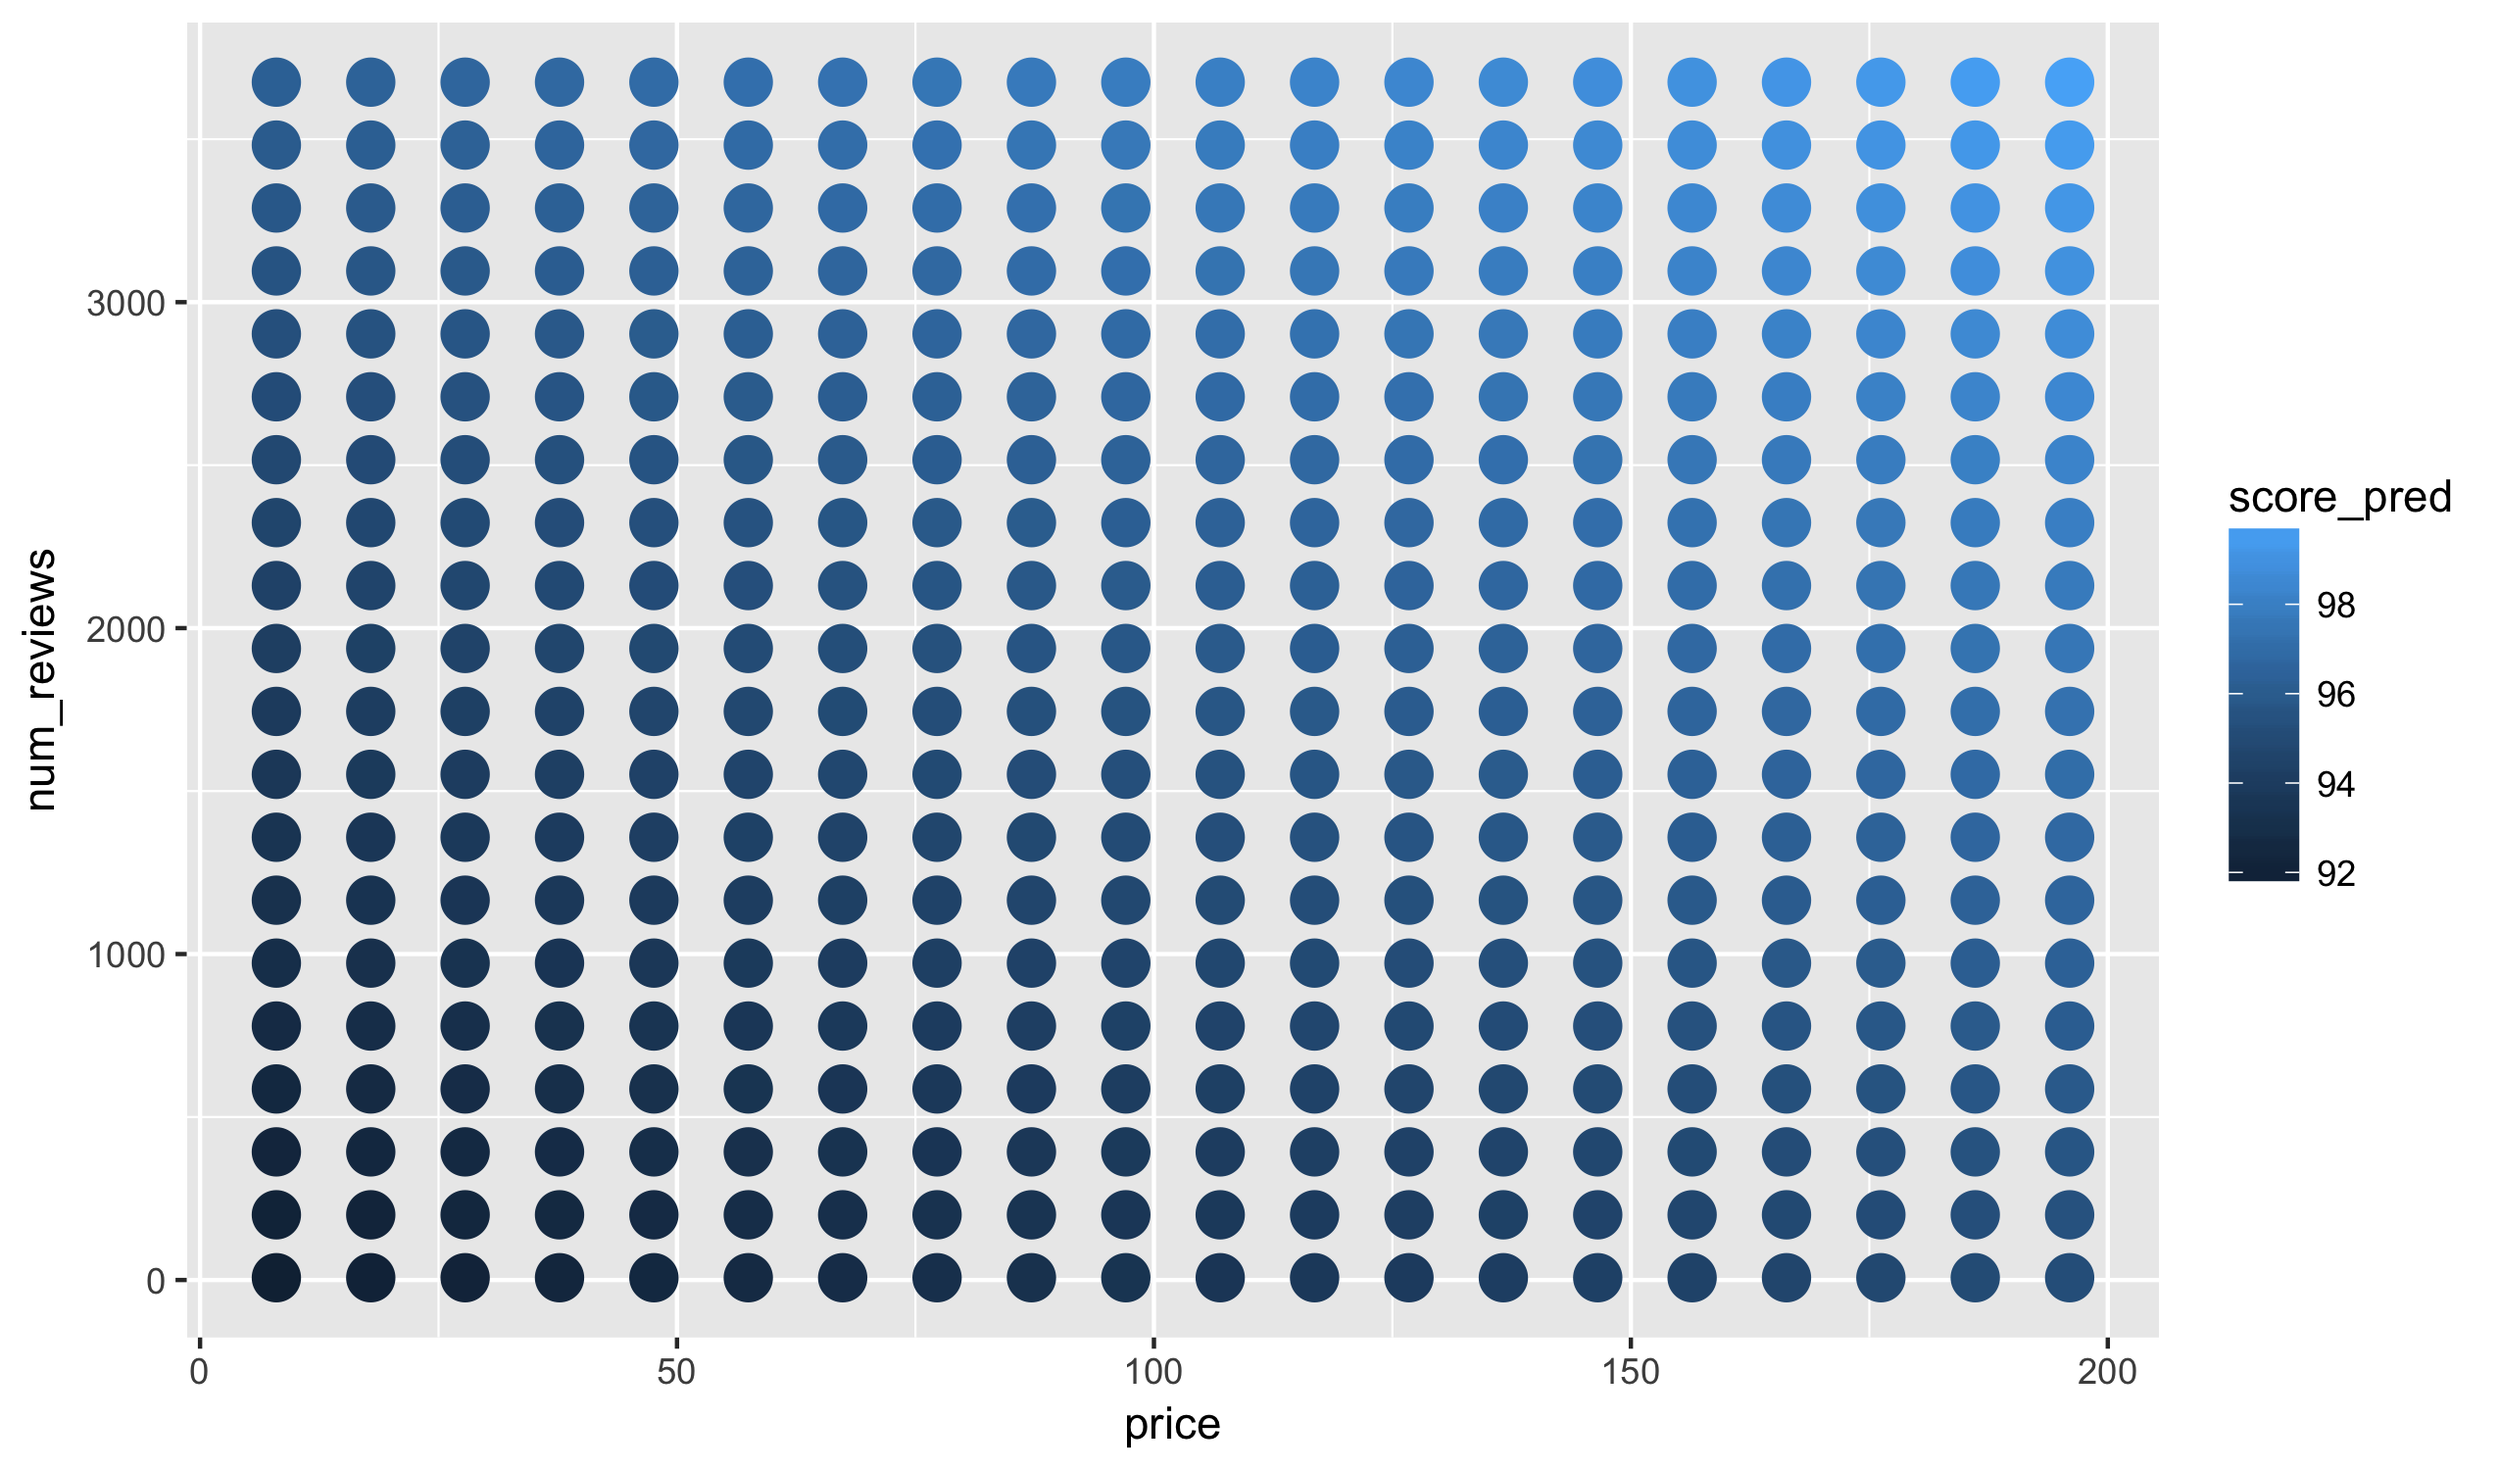
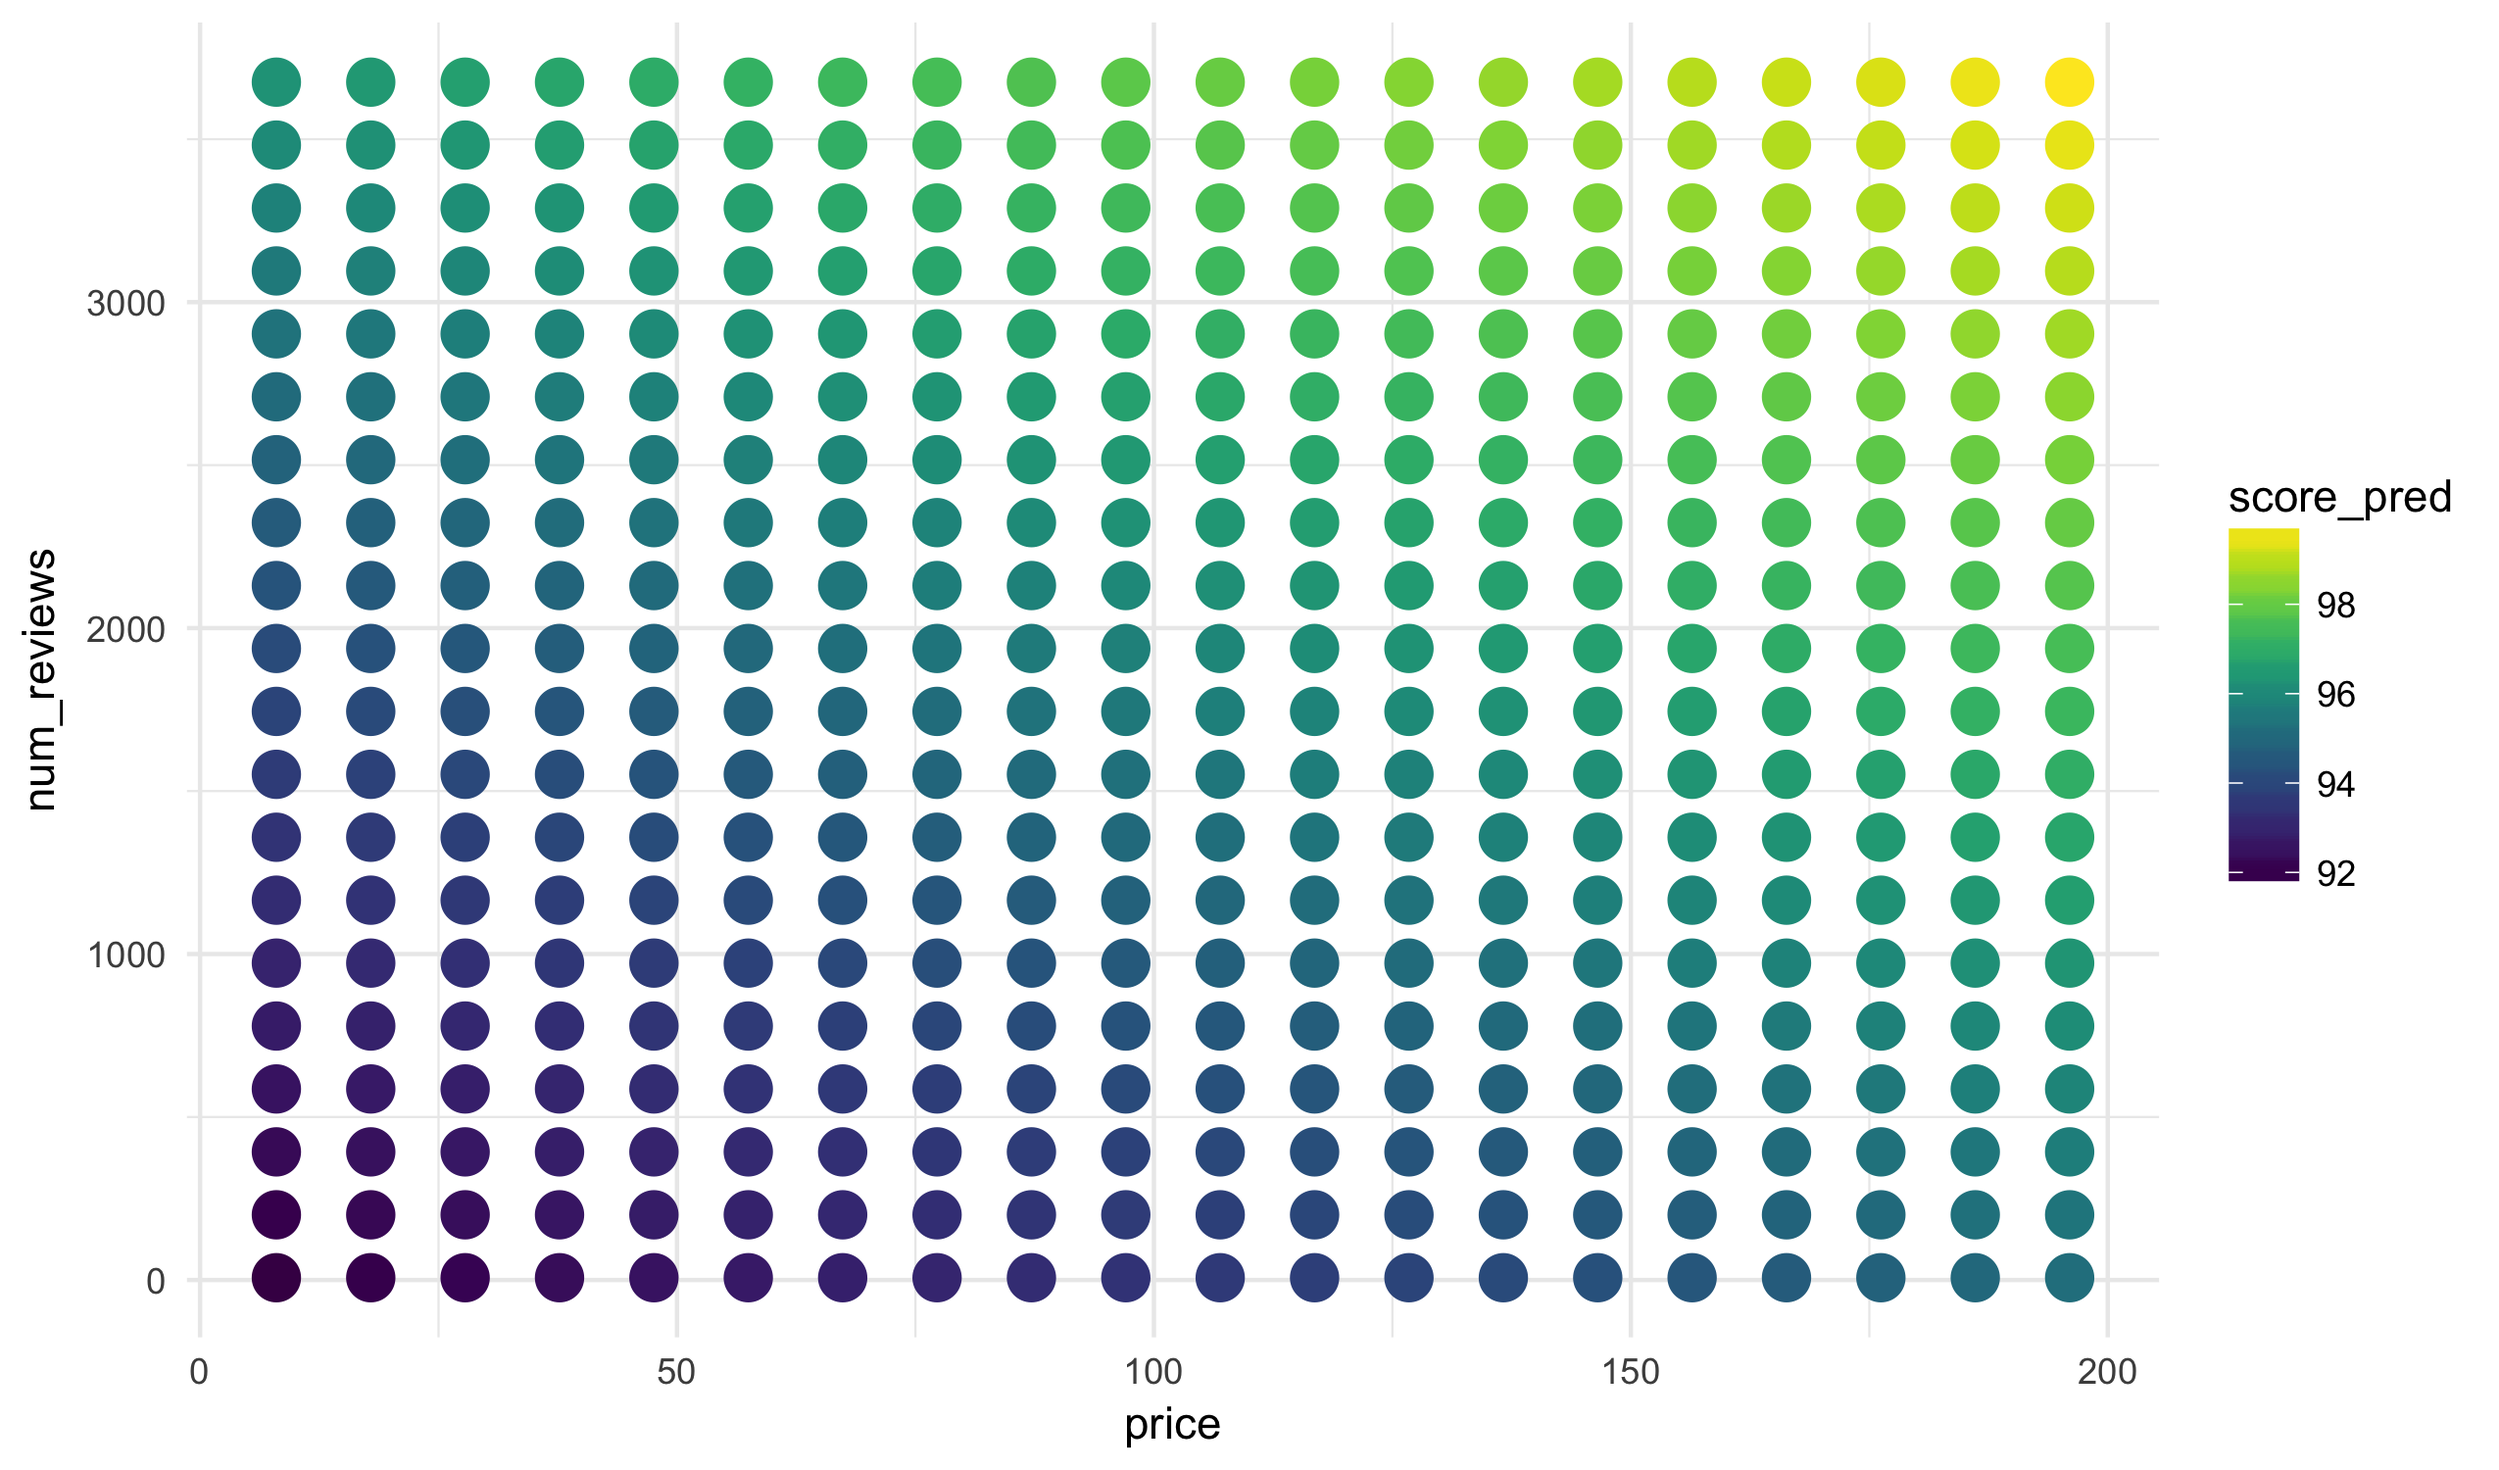
update classes 8-10

diff --git a/all.html b/all.html
@@ -19,7 +19,7 @@ Source: <b><a href="source/">link</a></b> <br>
 <div class="posts">
   <br>
   <h3>CLASS NOTES</h3>
-{% for post in site.posts reversed limit:3 %}
+{% for post in site.posts reversed %}
     <h3><strong>{{ post.date | date: "%Y-%m-%d" }}</strong>&nbsp;&nbsp;<a href="{{ site.baseurl }}{{ post.url }}">{{ post.title }}</a></h3>
 {% endfor %}
 </div>

diff --git a/_posts/2017-09-21-class08.md b/_posts/2017-09-21-class08.md
@@ -4,21 +4,15 @@ author: "Taylor Arnold"
 output: html_notebook
 ---
 
-```{r setup, include=FALSE}
-knitr::opts_chunk$set(eval = TRUE)
-knitr::opts_chunk$set(fig.path = "../assets/2017-09-21-class08/")
-knitr::opts_chunk$set(fig.height = 5)
-knitr::opts_chunk$set(fig.width = 8.5)
-knitr::opts_chunk$set(out.width = "100%")
-knitr::opts_chunk$set(dpi = 300)
-```
 
-```{r, message = FALSE}
+
+
+{% highlight r %}
 library(readr)
 library(ggplot2)
 library(dplyr)
 library(viridis)
-```
+{% endhighlight %}
 
 ![](../assets/img/data_pipeline_model.png)
 
@@ -30,9 +24,10 @@ library(viridis)
 Today we are, once again, going to look at another classic datasets
 in statistics featuring data about a number of automobiles.
 
-```{r, message = FALSE}
+
+{% highlight r %}
 cars <- read_csv("https://statsmaths.github.io/stat_data/mpg.csv")
-```
+{% endhighlight %}
 
 Our goal today is to estimate the city fuel efficiency of each car.
 
@@ -46,12 +41,27 @@ is internally being done here, but for now let's just
 see what adding the `class` variable to the model does
 to the output:
 
-```{r}
+
+{% highlight r %}
 model <- lm(cty ~ displ + class,
             data = cars)
 cars$score_pred <- predict(model, newdata = cars)
 model
-```
+{% endhighlight %}
+
+
+
+{% highlight text %}
+## 
+## Call:
+## lm(formula = cty ~ displ + class, data = cars)
+## 
+## Coefficients:
+##     (Intercept)            displ     classcompact     classmidsize  
+##          28.777           -2.172           -3.599           -3.676  
+##    classminivan      classpickup  classsubcompact         classsuv  
+##          -5.595           -6.182           -2.629           -5.599
+{% endhighlight %}
 
 Notice that it appears that we now have a separate term for
 each class of car. If you look more carefully you'll see that
@@ -70,11 +80,37 @@ For example, `glm` fits generalized linear models. These can
 be used, amongst other things, for fitting a model to a binary
 response:
 
-```{r}
+
+{% highlight r %}
 df <- data_frame(y = c(0,0,0,0,1,1,1,1), x = rnorm(8))
 model <- glm(y ~ x, data = df, family = binomial())
 summary(model)
-```
+{% endhighlight %}
+
+
+
+{% highlight text %}
+## 
+## Call:
+## glm(formula = y ~ x, family = binomial(), data = df)
+## 
+## Deviance Residuals: 
+##     Min       1Q   Median       3Q      Max  
+## -1.3085  -1.1577   0.0126   1.0724   1.5010  
+## 
+## Coefficients:
+##             Estimate Std. Error z value Pr(>|z|)
+## (Intercept)  -0.2570     0.8097  -0.317    0.751
+## x             0.7186     0.8329   0.863    0.388
+## 
+## (Dispersion parameter for binomial family taken to be 1)
+## 
+##     Null deviance: 11.090  on 7  degrees of freedom
+## Residual deviance: 10.214  on 6  degrees of freedom
+## AIC: 14.214
+## 
+## Number of Fisher Scoring iterations: 4
+{% endhighlight %}
 
 ### Robust linear models
 
@@ -82,22 +118,87 @@ In the **MASS** package (included with all standard R
 installations) is the `rlm` function for fitting robust
 linear regression:
 
-```{r}
+
+{% highlight r %}
 library(MASS)
+{% endhighlight %}
+
+
+
+{% highlight text %}
+## 
+## Attaching package: 'MASS'
+{% endhighlight %}
+
+
+
+{% highlight text %}
+## The following object is masked from 'package:dplyr':
+## 
+##     select
+{% endhighlight %}
+
+
+
+{% highlight r %}
 x <- rnorm(100)
 y <- 1 + x + rnorm(100, sd = 0.2)
 y[50] <- 1e4
 model_lm <- lm(y ~ x)
 model_rlm <- rlm(y ~ x)
-```
+{% endhighlight %}
 
 We see that the robust version is much more accurate than
 the standard regression function in this case:
 
-```{r}
+
+{% highlight r %}
 summary(model_lm)
+{% endhighlight %}
+
+
+
+{% highlight text %}
+## 
+## Call:
+## lm(formula = y ~ x)
+## 
+## Residuals:
+##    Min     1Q Median     3Q    Max 
+## -297.1 -159.6 -100.7  -44.5 9839.7 
+## 
+## Coefficients:
+##             Estimate Std. Error t value Pr(>|t|)
+## (Intercept)    83.12     102.82   0.808    0.421
+## x             -77.46     101.21  -0.765    0.446
+## 
+## Residual standard error: 1002 on 98 degrees of freedom
+## Multiple R-squared:  0.005941,	Adjusted R-squared:  -0.004203 
+## F-statistic: 0.5857 on 1 and 98 DF,  p-value: 0.4459
+{% endhighlight %}
+
+
+
+{% highlight r %}
 summary(model_rlm)
-```
+{% endhighlight %}
+
+
+
+{% highlight text %}
+## 
+## Call: rlm(formula = y ~ x)
+## Residuals:
+##        Min         1Q     Median         3Q        Max 
+## -4.720e-01 -1.571e-01 -1.513e-02  1.477e-01  1.000e+04 
+## 
+## Coefficients:
+##             Value   Std. Error t value
+## (Intercept)  0.9871  0.0214    46.0942
+## x            0.9936  0.0211    47.1332
+## 
+## Residual standard error: 0.233 on 98 degrees of freedom
+{% endhighlight %}
 
 ### Other models
 

diff --git a/_posts/2017-09-19-class07.md b/_posts/2017-09-19-class07.md
@@ -133,9 +133,9 @@ least squares is concerned with minimizing.
 {% highlight r %}
 tea <- mutate(tea, score_pred = 89 + num_reviews * 0.002)
 ggplot(tea, aes(num_reviews, score)) +
-  geom_line(color = "orange") +
-  geom_segment(aes(xend = num_reviews, yend = score_pred),
-               alpha = 0.5)
+  geom_smooth(method = "lm") +
+  geom_point() +
+  geom_segment(aes(xend = num_reviews, yend = score_pred))
 {% endhighlight %}
 
 <img src="../assets/2017-09-19-class07/unnamed-chunk-4-1.png" title="plot of chunk unnamed-chunk-4" alt="plot of chunk unnamed-chunk-4" width="100%" />
@@ -171,12 +171,26 @@ to our data:
 
 
 {% highlight r %}
-tea <- mutate(tea, pred = predict(model))
+tea <- mutate(tea, score_pred = predict(model))
 {% endhighlight %}
 
 And now plot the fitted values. Does it visually
 correspond to where you would expect the best fit
 line to run?
+
+
+{% highlight r %}
+ggplot(tea, aes(num_reviews, score_pred)) +
+  geom_smooth(method = "lm") +
+  geom_point() +
+  geom_segment(aes(xend = num_reviews, yend = pred))
+{% endhighlight %}
+
+
+
+{% highlight text %}
+## Error in eval(expr, envir, enclos): object 'pred' not found
+{% endhighlight %}
 
 <img src="../assets/2017-09-19-class07/unnamed-chunk-7-1.png" title="plot of chunk unnamed-chunk-7" alt="plot of chunk unnamed-chunk-7" width="100%" />
 
@@ -199,7 +213,7 @@ mean((tea$score - tea$score_pred)^2, na.rm = TRUE)
 
 
 {% highlight text %}
-## [1] 10.43739
+## [1] 3.63702
 {% endhighlight %}
 
 This works as a general measurement of error, but the units
@@ -215,7 +229,7 @@ sqrt(mean((tea$score - tea$score_pred)^2, na.rm = TRUE))
 
 
 {% highlight text %}
-## [1] 3.230695
+## [1] 1.907097
 {% endhighlight %}
 
 You'll find references to the RMSE through the literature on
@@ -247,7 +261,7 @@ the number of reviews and the price of the tea:
 
 {% highlight r %}
 model <- lm(score ~ num_reviews + price, data = tea)
-tea <- mutate(tea, pred = predict(model))
+tea <- mutate(tea, score_pred = predict(model))
 model
 {% endhighlight %}
 
@@ -275,21 +289,12 @@ tea_grid <- data_frame(num_reviews = tea_grid[,1],
                        price = tea_grid[,2])
 tea_grid$score_pred <- predict(model, newdata = tea_grid)
 ggplot(tea_grid, aes(price, num_reviews)) +
-  geom_point(aes(color = score_pred), size = 5)
-{% endhighlight %}
-
-<img src="../assets/2017-09-19-class07/unnamed-chunk-11-1.png" title="plot of chunk unnamed-chunk-11" alt="plot of chunk unnamed-chunk-11" width="100%" />
-
-{% highlight r %}
+  geom_point(aes(color = score_pred), size = 5) +
   scale_color_viridis() +
   theme_minimal()
 {% endhighlight %}
 
-
-
-{% highlight text %}
-## NULL
-{% endhighlight %}
+<img src="../assets/2017-09-19-class07/unnamed-chunk-11-1.png" title="plot of chunk unnamed-chunk-11" alt="plot of chunk unnamed-chunk-11" width="100%" />
 
 Also, the productiveness of the model has been
 greatly improved over the simple linear regression from
@@ -303,7 +308,7 @@ sqrt(mean((tea$score - tea$score_pred)^2, na.rm = TRUE))
 
 
 {% highlight text %}
-## [1] 3.230695
+## [1] 1.834459
 {% endhighlight %}
 
 ## Interpreting Regression Models
@@ -319,11 +324,11 @@ find that one should not rely too closely on the exact output
 ## Inference for Regression Models
 
 You should all be familiar with the structure of statistical hypothesis
-testing and confidence intervals. If not, the following are good sources
+testing and confidence intervals. If not, the following is a good sources
 for a brief review or catch-up:
 
-- []()
-- []()
+- [*Nature* Points of Significance: Significance, P values
+and t-tests](https://www.nature.com/nmeth/journal/v10/n11/pdf/nmeth.2698.pdf)
 
 We can easily get p-values that test whether each coefficient in a
 regression model is zero by calling the `summary` function on the
@@ -399,15 +404,6 @@ In general, in order to be valid hypothesis tests, we need to decide
 on the exact model before seeing any of the data and only run one
 model on the dataset. While we can run more models and modify them
 as we observe results, these can only be used for exploratory purposes.
-
-
-
-
-
-
-
-
-
 
 
 

diff --git a/_posts/2017-09-28-class10.md b/_posts/2017-09-28-class10.md
@@ -5,21 +5,15 @@ output: html_notebook
 ---
 
 
-```{r setup, include=FALSE}
-knitr::opts_chunk$set(eval = TRUE)
-knitr::opts_chunk$set(fig.path = "../assets/2017-09-28-class10/")
-knitr::opts_chunk$set(fig.height = 5)
-knitr::opts_chunk$set(fig.width = 8.5)
-knitr::opts_chunk$set(out.width = "100%")
-knitr::opts_chunk$set(dpi = 300)
-```
 
-```{r, message = FALSE}
+
+
+{% highlight r %}
 library(readr)
 library(ggplot2)
 library(dplyr)
 library(viridis)
-```
+{% endhighlight %}
 
 There are no formal notes for today. We will be doing
 the following:

diff --git a/_posts/2017-09-26-class09.md b/_posts/2017-09-26-class09.md
@@ -4,21 +4,15 @@ author: "Taylor Arnold"
 output: html_notebook
 ---
 
-```{r setup, include=FALSE}
-knitr::opts_chunk$set(eval = TRUE)
-knitr::opts_chunk$set(fig.path = "../assets/2017-09-26-class09/")
-knitr::opts_chunk$set(fig.height = 5)
-knitr::opts_chunk$set(fig.width = 8.5)
-knitr::opts_chunk$set(out.width = "100%")
-knitr::opts_chunk$set(dpi = 300)
-```
 
-```{r, message = FALSE}
+
+
+{% highlight r %}
 library(readr)
 library(ggplot2)
 library(dplyr)
 library(viridis)
-```
+{% endhighlight %}
 
 ![](img/data_pipeline_communicate.png)
 
